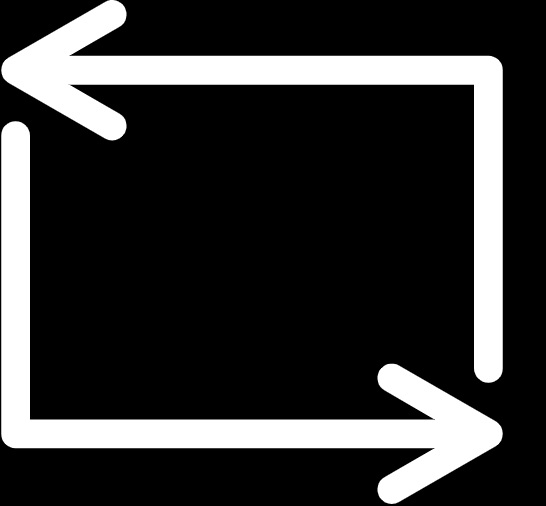
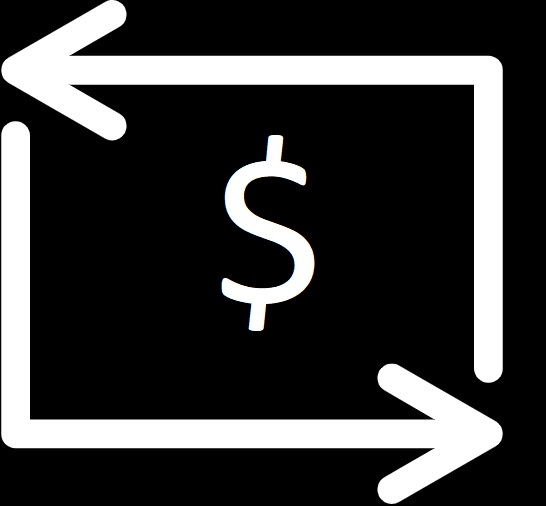
Pool function working, missing negative numbers not allowed

Changed region(s): [[0.4048, 0.2668, 0.5916, 0.6522]]

diff --git a/index.html b/index.html
@@ -17,8 +17,9 @@
             <img src="/media/towerpng.png" alt="torrecitaLogo">
         </div>
         <div id="titleHeader">TimbTower</div>
+
         <div id="menuHeader">
-            <div class="menuButton">
+            <div id="reloadBtn">
                 <img class="reload" src="/media/reload.jpg" alt="reloadBtn">
             </div>
             
@@ -33,56 +34,64 @@
         </div>
         <div id="timbTowel" class="columnGridTowel">
             
-            <div id="universalPool" class="numerosTowel" class="topRow">$$$$</div>
+            <div id="universalPool" class="numerosTowel topRow">Loading...</div>
 
             <div id="fila5" class="innerRowGridTowel" class="animation01">
-                <button id="r5_1" class="row5" class="valueAllx3Buttons">O</button>
-                <button id="r5_2" class="row5" class="valueAllx3Buttons">O</button>
-                <button id="r5_3" class="row5" class="valueAllx3Buttons">O</button>
+                <button id="r5_1" class="row5 valueAllx3Buttons">O</button>
+                <button id="r5_2" class="row5 valueAllx3Buttons">O</button>
+                <button id="r5_3" class="row5 valueAllx3Buttons">O</button>
             </div>
 
             
 
             <div id="fila4" class="innerRowGridTowel" class="animation01"">
-                <button id="r4_1" class="row4" class="valueAllx3Buttons">O</button>
-                <button id="r4_2" class="row4" class="valueAllx3Buttons">O</button>
-                <button id="r4_3" class="row4" class="valueAllx3Buttons">O</button>
+                <button id="r4_1" class="row4 valueAllx3Buttons">O</button>
+                <button id="r4_2" class="row4 valueAllx3Buttons">O</button>
+                <button id="r4_3" class="row4 valueAllx3Buttons">O</button>
             </div>
 
             
 
             <div id="fila3" class="innerRowGridTowel" class="animation01">
-                <button id="r3_1" class="row3" class="valueAllx3Buttons">O</button>
-                <button id="r3_2" class="row3" class="valueAllx3Buttons">O</button>
-                <button id="r3_3" class="row3" class="valueAllx3Buttons">O</button>
+                <button id="r3_1" class="row3 valueAllx3Buttons">O</button>
+                <button id="r3_2" class="row3 valueAllx3Buttons">O</button>
+                <button id="r3_3" class="row3 valueAllx3Buttons">O</button>
             </div>
 
             
 
             <div id="fila2" class="innerRowGridTowel" class="animation01">
-                <button id="r2_1" class="row2" class="valueAllx3Buttons">O</button>
-                <button id="r2_2" class="row2" class="valueAllx3Buttons">O</button>
-                <button id="r2_3" class="row2" class="valueAllx3Buttons">O</button>
+                <button id="r2_1" class="row2 valueAllx3Buttons">O</button>
+                <button id="r2_2" class="row2 valueAllx3Buttons">O</button>
+                <button id="r2_3" class="row2 valueAllx3Buttons">O</button>
             </div>
 
             <div id="fila1" class="innerRowGridTowel" class="animation01">
-                <button id="r1_1" class="row1" class="valueAllx3Buttons">O</button>
-                <button id="r1_2" class="row1" class="valueAllx3Buttons">O</button>
-                <button id="r1_3" class="row1" class="valueAllx3Buttons">O</button>
+                <button id="r1_1" class="row1 valueAllx3Buttons">O</button>
+                <button id="r1_2" class="row1 valueAllx3Buttons">O</button>
+                <button id="r1_3" class="row1 valueAllx3Buttons">O</button>
             </div>
             
             
             <div id="footerTowel" class="divTowel">
                 <button id="Start" class="randomGen">Start</button>
-                <div id="personalPool" class="numerosTowel">$1000</div>
+                <div id="personalPool" class="numerosTowel userPool">Loading...</div>
             </div>
         </div>
         
         
     </div>  <!--aca termina el grid-->
    
-    <div id="footContent"></div>
-    <footer id="FooterCopyRight"> <br>TimbTowel it's an interactive proyect for integral testing and responsive Web design by Christian S. Ramundo ©<br><br><br></footer>
+    <div class="howToPlay">
+        <h2>How to Play</h2>
+        <p>Lorem ipsum dolor sit amet consectetur adipisicing elit. Nam saepe recusandae non voluptatum ipsam numquam doloremque perferendis, dolorum, dignissimos quis rem velit suscipit mollitia quo dolore nihil, hic cumque optio?
+        Ducimus corporis optio tempore. Mollitia eius omnis velit possimus ipsam hic architecto beatae quia amet quis ut quidem dicta minus id a, laudantium fugiat ex voluptas officia sapiente accusamus unde!
+        Velit quam molestiae laboriosam ullam porro fugiat repellat earum quod autem exercitationem officia aperiam, minima fugit necessitatibus placeat consequuntur hic maxime quae. Saepe distinctio labore at deleniti. Magnam, alias laudantium?
+        Nihil maxime, ullam neque quas tempora perspiciatis consectetur repudiandae nesciunt suscipit aliquam distinctio corporis in maiores saepe, eaque id possimus dolorum! Possimus quaerat illum voluptatum incidunt repellat adipisci dolore temporibus.
+        Maxime sapiente sunt possimus vero, molestiae qui. Aperiam, quia? Doloremque id officia architecto fugit magnam vel doloribus dolore aspernatur necessitatibus impedit culpa earum, reprehenderit minus sint ducimus expedita sed accusantium.
+        </p>
+    </div>
+    <footer class="FooterCopyRight"> <br>TimbTowel it's an interactive proyect for integral testing and responsive Web design by Christian S. Ramundo ©<br><br><br></footer>
     
     <script src="/JS logic/mainTowerFuntions.js" ></script>
     <script src="/JS logic/menu&logs.js"></script>

diff --git a/styles/StylesManqueta.css b/styles/StylesManqueta.css
@@ -1,5 +1,6 @@
 html{
-    background-color: rgb(109, 179, 109);
+     background-color: rgb(109, 179, 109); 
+    /* background-image: url(/media/wallpaperpixel.jpg) */ ;
     height: 100%;
 }
 body{
@@ -23,12 +24,15 @@ body{
 
 .reload{
     padding-top: 12%;
-
     max-height: 3.75rem;
     max-width: 3rem;
 }
 
-
+.topRow{
+    /* background-image: url(/media/PoolBoard.jpg) */;
+    background-repeat: no-repeat;
+    background-position: center;
+}
 #grid{
     display: grid;
     grid-template-columns: 1fr 1fr 1fr;
@@ -80,20 +84,35 @@ body{
     
 }
 
-#footContent{
-    background-color: gray;
-    height: 20%;
-}
-#FooterCopyRight{
-    background-color: black;
-    color: bisque;
+.howToPlay{
     text-align: center;
-    margin-top: auto;
+    color: #fff;
+    padding-top: 1rem;
+    background-color: #000;
+}
+
+.howToPlay p{
+    display: flex;
+    align-items: center;
+    justify-content: center;
+    padding-top: 1rem;
     padding-bottom: 2rem;
+    padding-right: 1rem;
+    padding-left: 1rem;
+}
+.FooterCopyRight{
+    display: flex;
+    align-items: center;
+    justify-content: center;
+    background-color: rgb(54, 53, 53);
+    color: bisque;
+    padding-top: 1%;
+    padding-bottom: 0.3%;
 }
 button{
     font-size: 4rem;
-    background-color: #ccc;
+    background-color: #ccc; 
+    /* background-image: url(/media/brickspixelart.png) */;
     width: 100%;
     border: 1px double black;
     border-spacing: 0;
@@ -107,16 +126,25 @@ button{
 .numerosTowel{
     text-align: center;
     font-size: 4rem;
-    background-color: #ccc;
+    /* background-color: #ccc; */
+    
     width: 100%;
     border: 1px double black;
     border-radius: 5px;
 }
-button:hover{
-    background-color: rgb(153, 150, 150);
-    
-    
+.userPool{
+/* background-image: url(/media/stashUser.jpg); */
+background-color: #ccc;
 }
+
+.valueAllx3Buttons:hover{
+    color: #fff;
+}
+
+.randomGen:hover{
+    color: #fff;
+}
+
 #menuHeader>div,div > svg{
     cursor:pointer;
     align-items: center;
@@ -229,3 +257,15 @@ visibility: hidden;
     
 }
 
+
+@keyframes zoomInZoomOut {
+    0% {
+      transform: scale(1, 1);
+    }
+    50% {
+      transform: scale(1.5, 1.5);
+    }
+    100% {
+      transform: scale(1, 1);
+    }
+  }

diff --git a/JS logic/mainTowerFuntions.js b/JS logic/mainTowerFuntions.js
@@ -36,18 +36,20 @@ let r5_3 = document.querySelector("#r5_3");
 
 
 const UniversalPoolObj = {
-     value: 999,
+     $: 999,
      userWon: true,     //if user won value can be change
      isVerified: true,
 }
 
 const userStashObj = {
-     value: 10,
+     $: 10,
      user: 'Roberto',
      isVerified: true,
 }
-userStash.innerHTML = `$${userStashObj.value}`;
-universalPool.innerHTML = `$${UniversalPoolObj.value}`
+
+
+userStash.innerHTML = `$${userStashObj.$}`;
+universalPool.innerHTML = `$${UniversalPoolObj.$}`
 
 
 
@@ -78,20 +80,26 @@ const r5_3Wins =  false;
  iniciarApp();
  
 function iniciarApp(){
-    
+     allrowsNotVisible();
      alert("Presiona start para iniciar TimbTowel");
      resetAll();
 }
- 
+
+
 
 function Loss(){
     alert("Loss");
     allrowsNotVisible();
     iniciarApp();
+      userStashObj.$ -= 1;
+     userStash.innerHTML = `$${userStashObj.$}`;
+
+
+
+
+
     
 }
-
-
 
 //creo la variable desde afuera para poder asignar
 let WinnerRound1 = 0;
@@ -103,7 +111,7 @@ let WinnerRound5 = 0;
 
 //it generate 3 random numbers
 function randomGen1(){
-    if(Start = true){
+    if(Start = true && userStashObj.$ >=1){
         alert("elige uno de los 3, solo hay 1 correcto,si elegis bien, pasas al prox nivel")
         
         r1_1 = Math.random() * 20 * Math.PI ;
@@ -125,7 +133,10 @@ function randomGen1(){
      randomGen1Visible();
      
      
+    }else{
+          alert("Parece que te quedaste sin creditos, deberias recargar para seguir jugando!")
     }
+    
 }
 
 
@@ -602,6 +613,12 @@ function resetAll(){
 
     function FinalWinWin(){
            alert("¡GANASTE!");
+           let reward = UniversalPoolObj.$ / 2;
+           userStashObj.$ += reward;
+           UniversalPoolObj.$ -= reward;
+           userStash.innerHTML = `$${userStashObj.$}`;
+           universalPool.innerHTML = `$${UniversalPoolObj.$}`
+
     }
 
 

diff --git a/JS logic/menu&logs.js b/JS logic/menu&logs.js
@@ -1,9 +1,9 @@
-const toggleMenu = document.querySelector(".menuButton");
-    const dropdown = document.querySelector("#dropdown");
-     toggleMenu.addEventListener("click",Show)
+    const reload = document.querySelector("#reloadBtn");
+     reload.addEventListener("click",refillPools)
      
-     function Show(){
-          dropdown.classList.toggle("dropdownActivo")
-          dropdown.classList.toggle("dropdownInactivo")
-
+     function refillPools(){
+          userStashObj.$ = 10;
+          UniversalPoolObj.$ = 999;
+          userStash.innerHTML = `$${userStashObj.$}`;
+          universalPool.innerHTML = `$${UniversalPoolObj.$}`
      }
